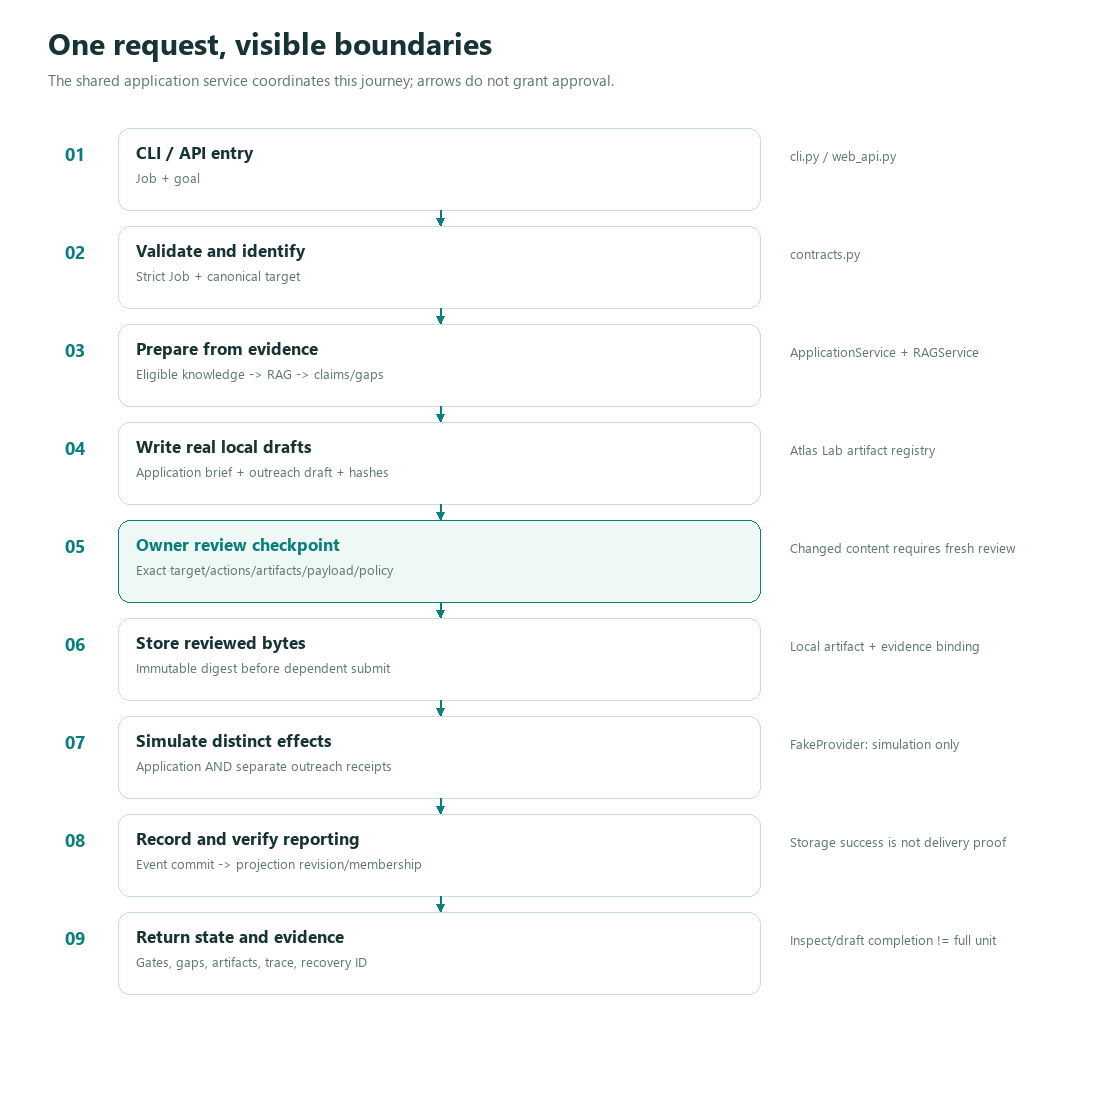
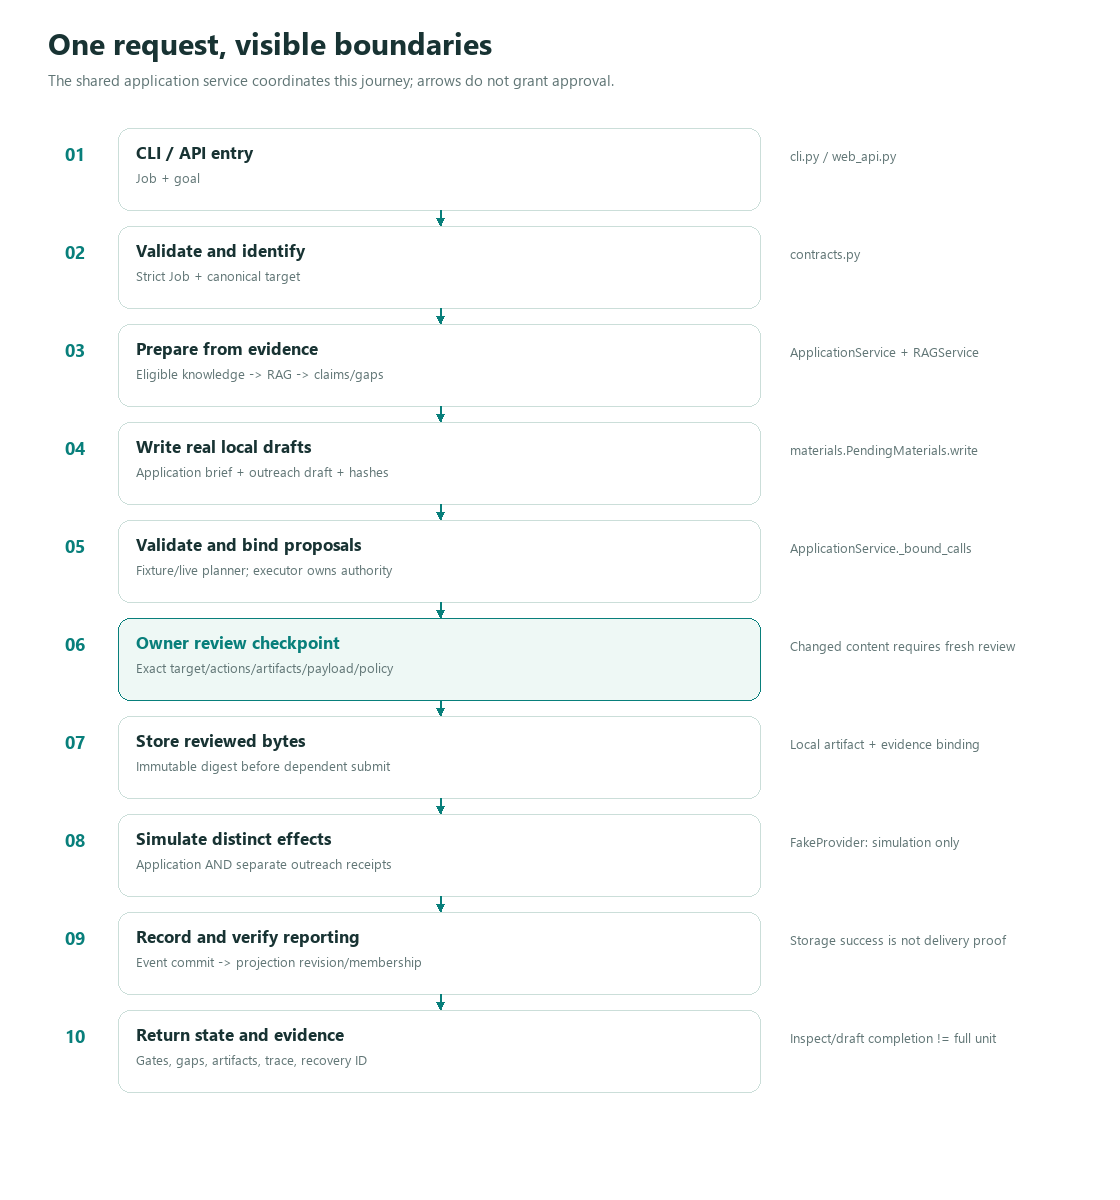
Synchronize the final inspected request diagram and editable source

diff --git a/docs/architecture/diagrams.py b/docs/architecture/diagrams.py
@@ -133,23 +133,24 @@ def system():
 
 
 def request():
-    d=Diagram('request-sequence','One request, visible boundaries','The shared application service coordinates this journey; arrows do not grant approval.',1110)
+    d=Diagram('request-sequence','One request, visible boundaries','The shared application service coordinates this journey; arrows do not grant approval.',1200)
     rows=[
       ('01','CLI / API entry','Job + goal','cli.py / web_api.py'),
       ('02','Validate and identify','Strict Job + canonical target','contracts.py'),
       ('03','Prepare from evidence','Eligible knowledge -> RAG -> claims/gaps','ApplicationService + RAGService'),
-      ('04','Write real local drafts','Application brief + outreach draft + hashes','Atlas Lab artifact registry'),
-      ('05','Owner review checkpoint','Exact target/actions/artifacts/payload/policy','Changed content requires fresh review'),
-      ('06','Store reviewed bytes','Immutable digest before dependent submit','Local artifact + evidence binding'),
-      ('07','Simulate distinct effects','Application AND separate outreach receipts','FakeProvider: simulation only'),
-      ('08','Record and verify reporting','Event commit -> projection revision/membership','Storage success is not delivery proof'),
-      ('09','Return state and evidence','Gates, gaps, artifacts, trace, recovery ID','Inspect/draft completion != full unit')]
+      ('04','Write real local drafts','Application brief + outreach draft + hashes','materials.PendingMaterials.write'),
+      ('05','Validate and bind proposals','Fixture/live planner; executor owns authority','ApplicationService._bound_calls'),
+      ('06','Owner review checkpoint','Exact target/actions/artifacts/payload/policy','Changed content requires fresh review'),
+      ('07','Store reviewed bytes','Immutable digest before dependent submit','Local artifact + evidence binding'),
+      ('08','Simulate distinct effects','Application AND separate outreach receipts','FakeProvider: simulation only'),
+      ('09','Record and verify reporting','Event commit -> projection revision/membership','Storage success is not delivery proof'),
+      ('10','Return state and evidence','Gates, gaps, artifacts, trace, recovery ID','Inspect/draft completion != full unit')]
     for i,(number,title,body,module) in enumerate(rows):
         y=128+i*98
         d.text(65,y+31,number,18,TEAL,True)
-        d.box(118,y,642,82,title,[body],accent=i==4)
+        d.box(118,y,642,82,title,[body],accent=i==5)
         d.text(790,y+31,module,13,MUTED)
-        if i<8:d.arrow([(440,y+82),(440,y+98)])
+        if i<9:d.arrow([(440,y+82),(440,y+98)])
     d.save()
 
 
